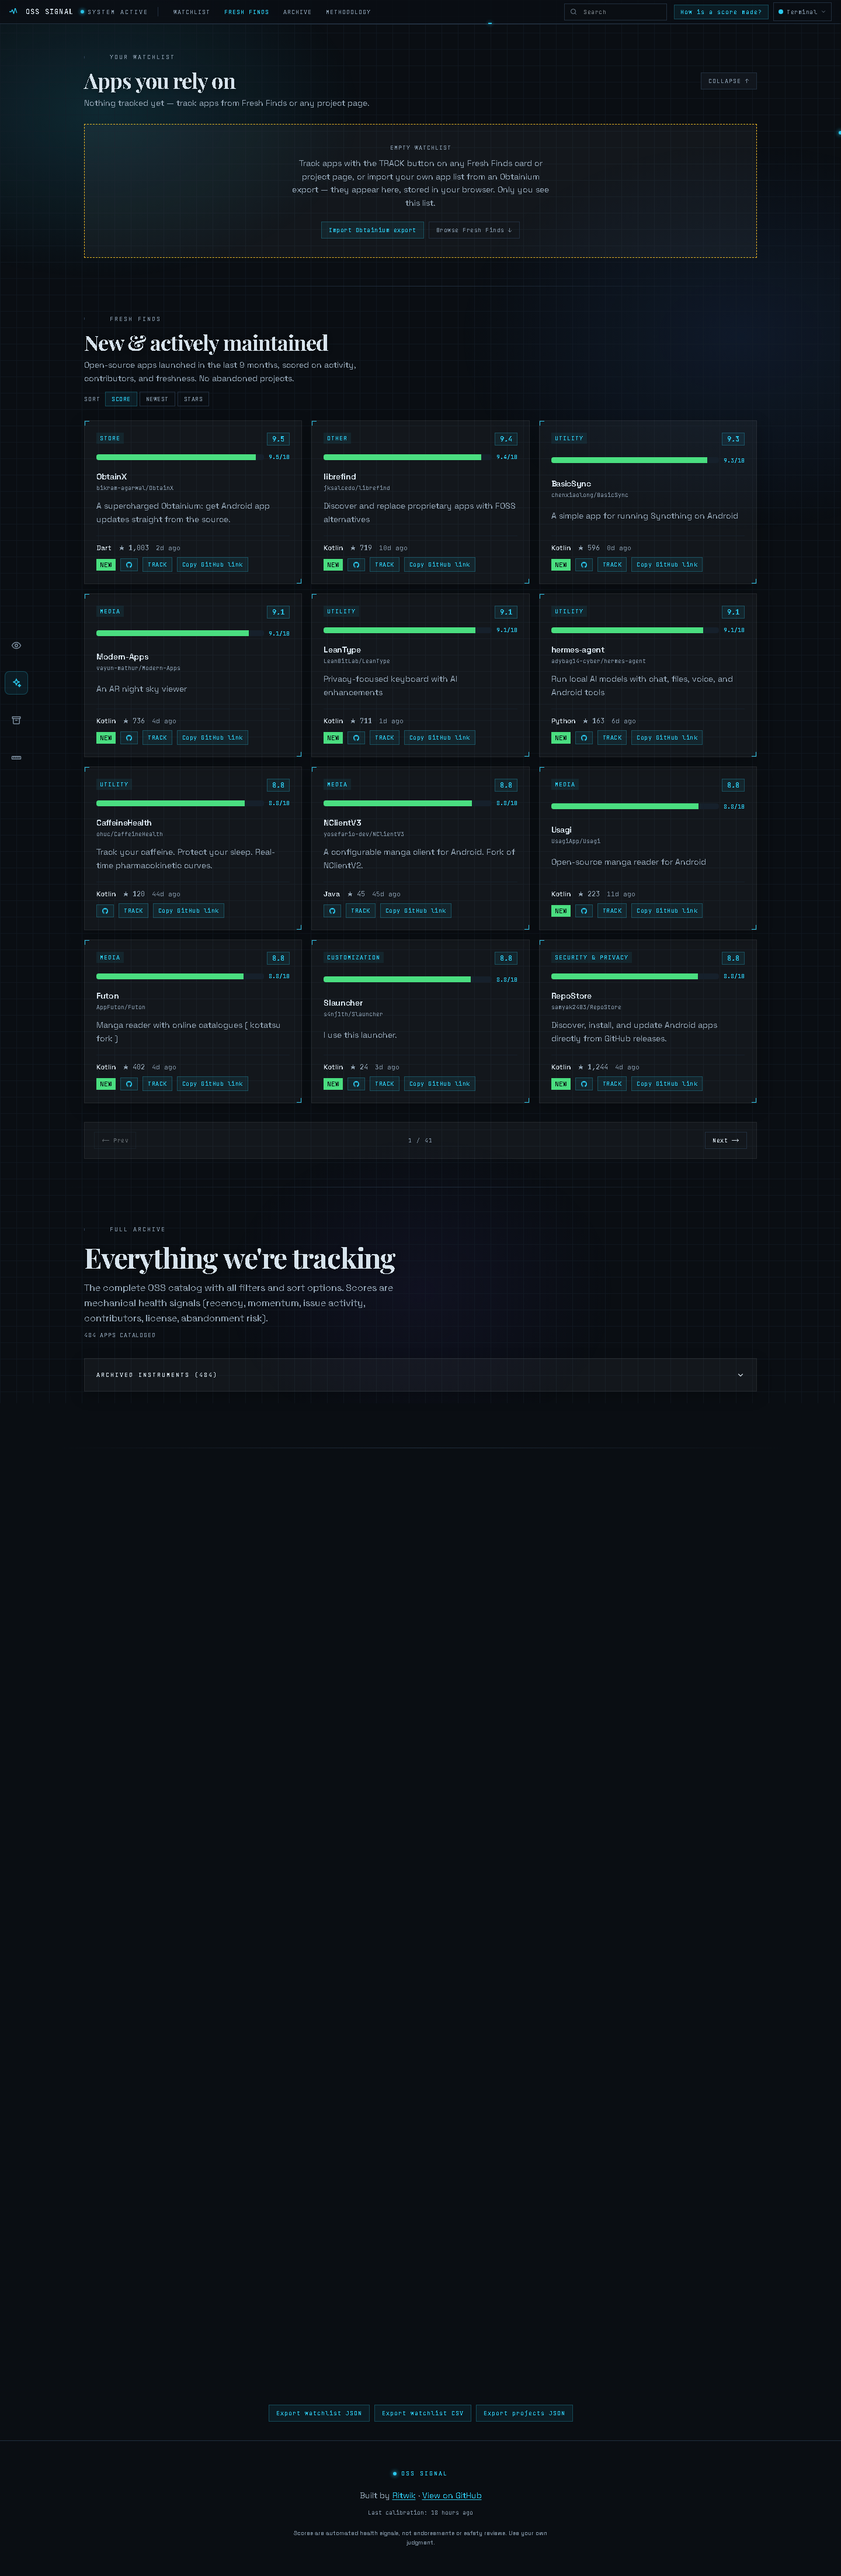
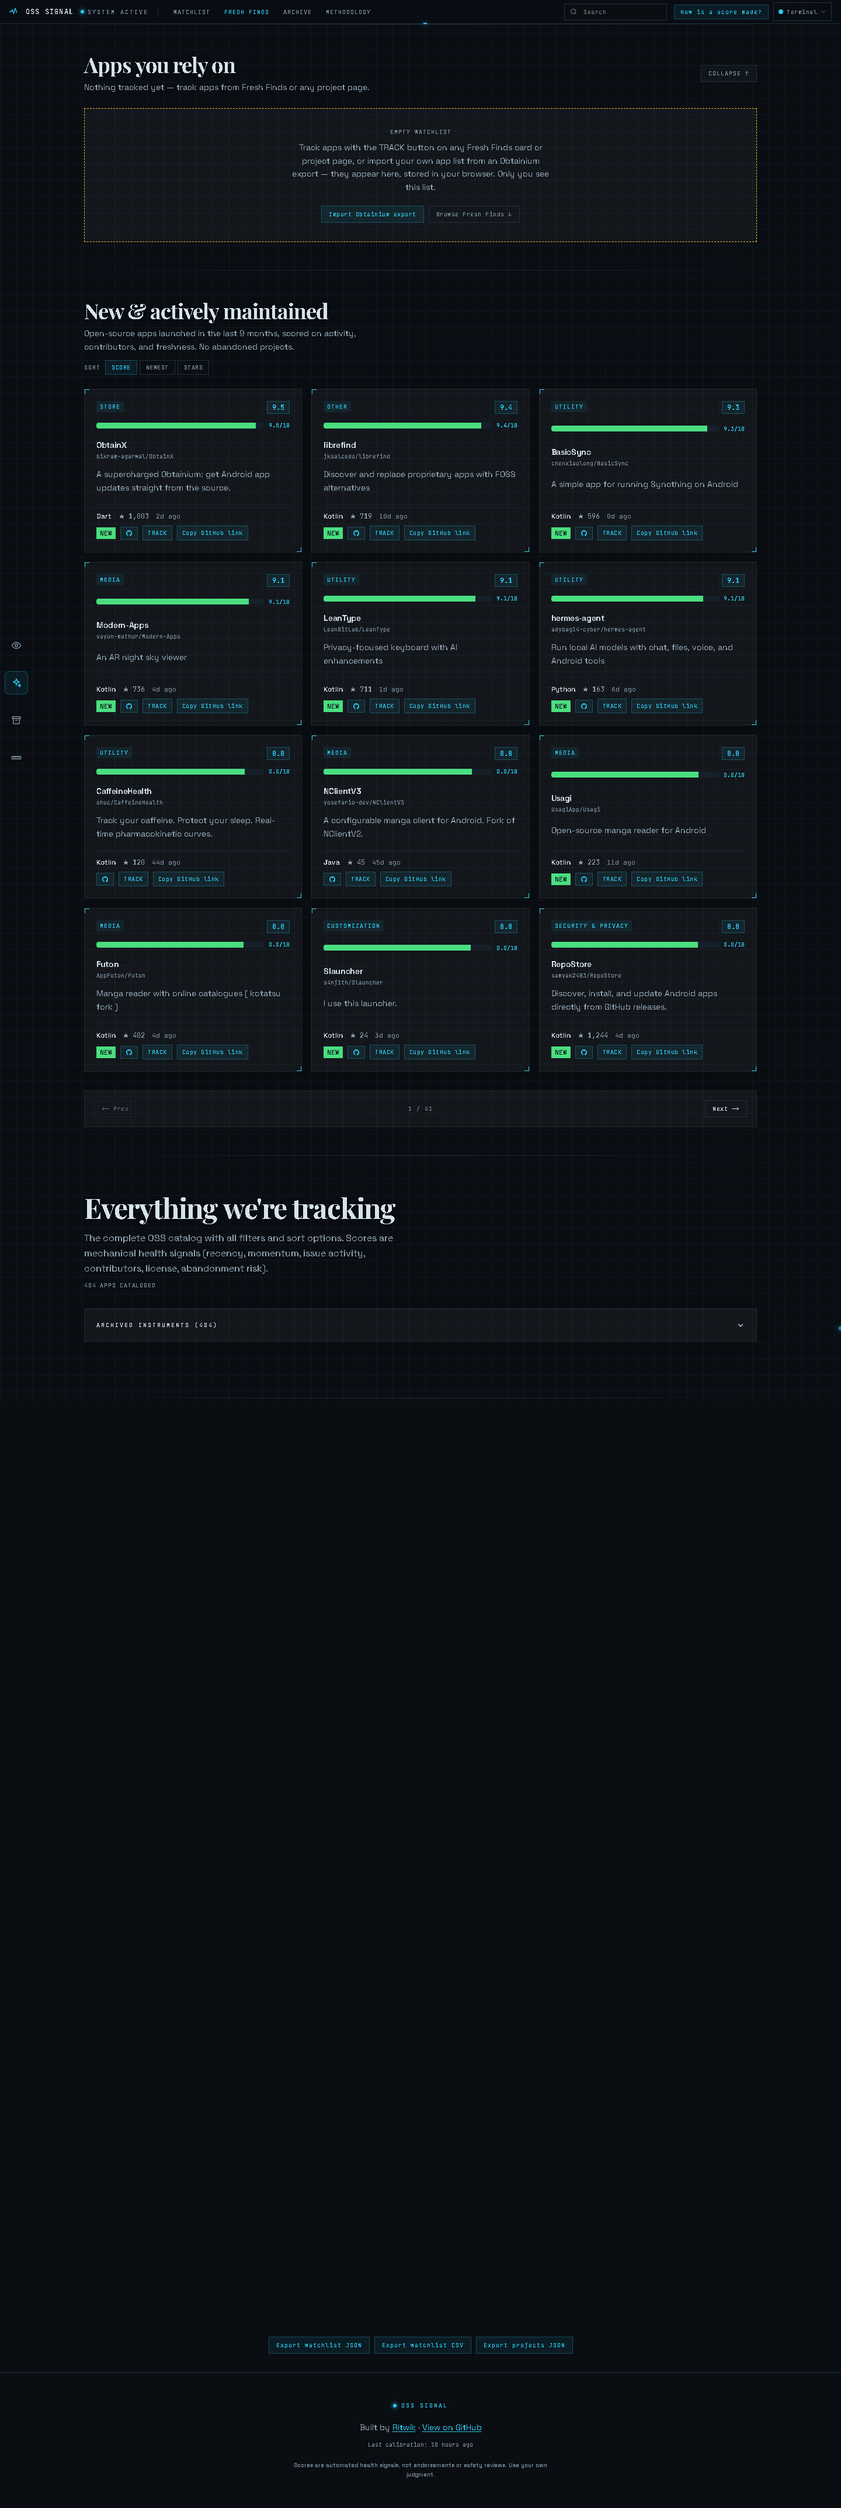
declutter: remove aurora glow layer and section eyebrow labels (Your Watchlist / Fresh Finds / Full Archive / Methodology)

diff --git a/src/app/globals.css b/src/app/globals.css
@@ -51,9 +51,6 @@
   --glow-strong: 0 0 10px 1px rgba(217, 160, 91, 0.3);
   --glow-faint: 0 0 2px 0 rgba(217, 160, 91, 0.2);
   --card-shadow: 0 8px 24px rgba(0, 0, 0, 0.25);
-  --aurora-1: rgba(217, 160, 91, 0.14);
-  --aurora-2: rgba(232, 163, 61, 0.1);
-  --aurora-3: rgba(165, 100, 31, 0.08);
 }
 
 /* Terminal — dark cyan (non-brown) */
@@ -94,9 +91,6 @@
   --glow-strong: 0 0 10px 1px rgba(44, 201, 238, 0.3);
   --glow-faint: 0 0 2px 0 rgba(44, 201, 238, 0.2);
   --card-shadow: 0 8px 24px rgba(0, 0, 0, 0.25);
-  --aurora-1: rgba(44, 201, 238, 0.14);
-  --aurora-2: rgba(60, 130, 240, 0.1);
-  --aurora-3: rgba(90, 60, 200, 0.08);
 }
 
 /* Midnight — dark blue-gray (non-brown) */
@@ -137,9 +131,6 @@
   --glow-strong: 0 0 10px 1px rgba(134, 174, 232, 0.3);
   --glow-faint: 0 0 2px 0 rgba(134, 174, 232, 0.2);
   --card-shadow: 0 8px 24px rgba(0, 0, 0, 0.25);
-  --aurora-1: rgba(134, 174, 232, 0.14);
-  --aurora-2: rgba(96, 130, 220, 0.1);
-  --aurora-3: rgba(70, 90, 190, 0.08);
 }
 
 /* Caramel — mid-dark */
@@ -180,9 +171,6 @@
   --glow-strong: 0 0 10px 1px rgba(232, 163, 61, 0.3);
   --glow-faint: 0 0 2px 0 rgba(232, 163, 61, 0.2);
   --card-shadow: 0 8px 24px rgba(0, 0, 0, 0.25);
-  --aurora-1: rgba(232, 163, 61, 0.13);
-  --aurora-2: rgba(208, 140, 63, 0.1);
-  --aurora-3: rgba(165, 100, 31, 0.08);
 }
 
 /* Latte — light warm tan */
@@ -223,9 +211,6 @@
   --glow-strong: 0 0 10px 1px rgba(139, 77, 21, 0.18);
   --glow-faint: 0 0 2px 0 rgba(139, 77, 21, 0.12);
   --card-shadow: 0 1px 3px rgba(80, 55, 25, 0.12), 0 6px 18px -6px rgba(80, 55, 25, 0.22);
-  --aurora-1: rgba(139, 77, 21, 0.1);
-  --aurora-2: rgba(217, 160, 91, 0.14);
-  --aurora-3: rgba(160, 110, 40, 0.08);
 }
 
 /* Cream — light clean cream, brightest */
@@ -266,9 +251,6 @@
   --glow-strong: 0 0 10px 1px rgba(143, 80, 31, 0.16);
   --glow-faint: 0 0 2px 0 rgba(143, 80, 31, 0.12);
   --card-shadow: 0 1px 2px rgba(60, 45, 25, 0.08), 0 4px 14px -4px rgba(60, 45, 25, 0.15);
-  --aurora-1: rgba(143, 80, 31, 0.07);
-  --aurora-2: rgba(217, 160, 91, 0.1);
-  --aurora-3: rgba(165, 100, 31, 0.05);
 }
 
 /* Blush — light rosy (non-brown) */
@@ -309,9 +291,6 @@
   --glow-strong: 0 0 10px 1px rgba(166, 83, 79, 0.18);
   --glow-faint: 0 0 2px 0 rgba(166, 83, 79, 0.12);
   --card-shadow: 0 1px 3px rgba(90, 50, 45, 0.1), 0 6px 18px -6px rgba(90, 50, 45, 0.2);
-  --aurora-1: rgba(166, 83, 79, 0.09);
-  --aurora-2: rgba(200, 120, 110, 0.13);
-  --aurora-3: rgba(140, 90, 130, 0.07);
 }
 
 /* Azure — light blue (non-brown) */
@@ -352,9 +331,6 @@
   --glow-strong: 0 0 10px 1px rgba(42, 95, 158, 0.18);
   --glow-faint: 0 0 2px 0 rgba(42, 95, 158, 0.12);
   --card-shadow: 0 1px 3px rgba(35, 55, 85, 0.1), 0 6px 18px -6px rgba(35, 55, 85, 0.2);
-  --aurora-1: rgba(42, 95, 158, 0.09);
-  --aurora-2: rgba(90, 140, 200, 0.13);
-  --aurora-3: rgba(60, 110, 180, 0.07);
 }
 
 body {
@@ -362,18 +338,6 @@ body {
   color: var(--color-text);
   font-family: var(--font-sans), system-ui, sans-serif;
   -webkit-tap-highlight-color: transparent;
-}
-
-/* ── Ambient aurora (what glass blurs) ── */
-.aurora {
-  position: fixed;
-  inset: 0;
-  z-index: -1;
-  pointer-events: none;
-  background:
-    radial-gradient(720px 460px at 12% 8%, var(--aurora-1), transparent 62%),
-    radial-gradient(780px 540px at 88% 24%, var(--aurora-2), transparent 62%),
-    radial-gradient(560px 440px at 50% 92%, var(--aurora-3), transparent 60%);
 }
 
 /* ── Glass surface ── */
@@ -810,7 +774,6 @@ button, a, [role="button"] {
 
 /* ── Print: hide telemetry chrome, force content visible ── */
 @media print {
-  .aurora,
   .grid-overlay,
   .calibration-scan,
   .scroll-tracker,

diff --git a/src/components/scoring-section.tsx b/src/components/scoring-section.tsx
@@ -82,21 +82,6 @@ export function ScoringSection() {
       <div className="max-w-4xl mx-auto">
         {/* Section header — notebook style */}
         <div className="mb-16">
-          <motion.div
-            initial={{ opacity: 0, x: -20 }}
-            whileInView={{ opacity: 1, x: 0 }}
-            viewport={{ once: true }}
-            transition={{ duration: 0.5 }}
-            className="flex items-center gap-3 mb-4"
-          >
-            <div className="calibration-marks w-8" />
-            <span
-              className="font-mono text-[10px] tracking-[0.2em] uppercase"
-              style={{ color: "var(--color-text-dim)" }}
-            >
-              Methodology
-            </span>
-          </motion.div>
           <motion.h2
             initial={{ opacity: 0, y: 30 }}
             whileInView={{ opacity: 1, y: 0 }}

diff --git a/src/components/watchlist-panel.tsx b/src/components/watchlist-panel.tsx
@@ -316,15 +316,6 @@ export function WatchlistPanel({ apps, genres }: { apps: WatchlistApp[]; genres:
         {/* Header */}
         <div className="mb-6 flex items-center justify-between flex-wrap gap-4">
           <div>
-            <div className="flex items-center gap-3 mb-3">
-              <div className="calibration-marks w-8" />
-              <span
-                className="font-mono text-[10px] tracking-[0.2em] uppercase"
-                style={{ color: "var(--color-text-dim)" }}
-              >
-                Your Watchlist
-              </span>
-            </div>
             <h2
               className="text-3xl md:text-4xl font-bold tracking-tight serif-display"
               style={{ color: "var(--color-text)" }}

diff --git a/src/components/fresh-finds.tsx b/src/components/fresh-finds.tsx
@@ -81,15 +81,6 @@ export function FreshFinds({ projects, genres }: { projects: Project[]; genres: 
       <div className="max-w-6xl mx-auto">
         {/* Header */}
         <div className="mb-6">
-          <div className="flex items-center gap-3 mb-3">
-            <div className="calibration-marks w-8" />
-            <span
-              className="font-mono text-[10px] tracking-[0.2em] uppercase"
-              style={{ color: "var(--color-text-dim)" }}
-            >
-              Fresh Finds
-            </span>
-          </div>
           <h2
             className="text-3xl md:text-4xl font-bold tracking-tight serif-display"
             style={{ color: "var(--color-text)" }}

diff --git a/src/components/project-grid.tsx b/src/components/project-grid.tsx
@@ -305,15 +305,6 @@ export function ProjectGrid({
       <div className="max-w-6xl mx-auto">
         {/* Section header */}
         <div className="mb-8">
-          <div className="flex items-center gap-3 mb-4">
-            <div className="calibration-marks w-8" />
-            <span
-              className="font-mono text-[10px] tracking-[0.2em] uppercase"
-              style={{ color: "var(--color-text-dim)" }}
-            >
-              Full Archive
-            </span>
-          </div>
           <h2
             className="text-4xl md:text-5xl font-bold tracking-tight mb-4 serif-display"
             style={{ color: "var(--color-text)" }}

diff --git a/src/app/layout.tsx b/src/app/layout.tsx
@@ -69,8 +69,6 @@ export default async function RootLayout({
       </head>
       <body className="min-h-full flex flex-col isolate">
         <a href="#main-content" className="skip-link">Skip to main content</a>
-        {/* Ambient aurora — sits behind all content so glass surfaces have something to blur */}
-        <div className="aurora" aria-hidden="true" />
         {/* Fixed graph-paper grid — telemetry texture behind everything */}
         <div className="grid-overlay" aria-hidden="true" />
         {children}
